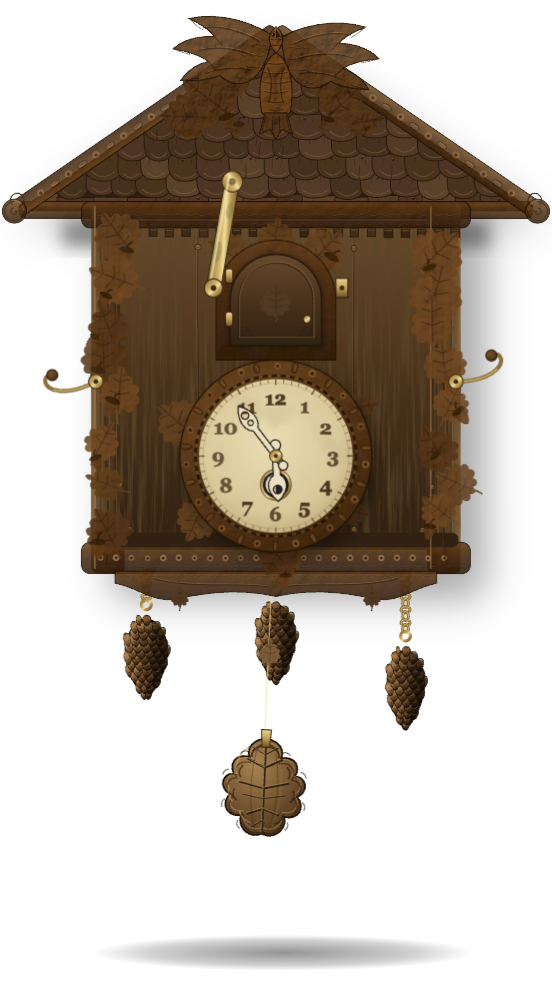
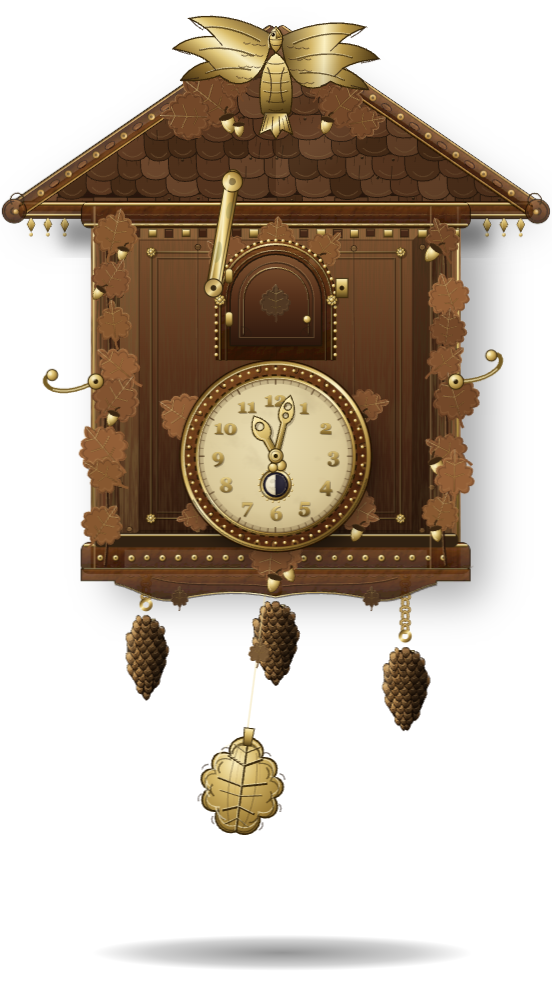
Refresh public repo presentation for the new gilt/carved-bird look
Screenshots were still from before the gold luxury pass and per-species
bird redesign, so they showed a plain wood clock with one generic bird.
Regenerated docs/screenshot-case.png and docs/screenshot-panel.png from
a live self test run, added docs/screenshot-birds.png (a labelled gallery
of all six carved species) and docs/social-preview.png (a 1280x640 hero
banner for GitHub's link preview, upload manually via Settings > General
> Social preview, there's no public API for setting it).

README: added badges, a "Using it" section covering the case's real
interactions (drag to move/resize, click the bob to stop/start the
pendulum, drag chains to wind, click the latch, double click the dial),
and updated copy to describe the current look and the six real bird
carvings instead of six recolors. Repo description and topics also set
via `gh repo edit`.

Claude-Session: https://claude.ai/code/session_019h2RLxp2iqRRXf3q8ZD4nQ

diff --git a/README.md b/README.md
@@ -1,9 +1,20 @@
 # CuckooSoft
 
-A hand carved, fully working Black Forest cuckoo clock that lives on your macOS
+<p align="center">
+  <img src="docs/social-preview.png" alt="CuckooSoft" width="720">
+</p>
+
+<p align="center">
+  <a href="LICENSE"><img alt="License: MIT" src="https://img.shields.io/badge/license-MIT-d4af7a.svg"></a>
+  <img alt="Platform: macOS" src="https://img.shields.io/badge/platform-macOS-6e5a3f.svg">
+  <img alt="Electron" src="https://img.shields.io/badge/built%20with-Electron-6e5a3f.svg">
+</p>
+
+A hand carved, gilt Black Forest cuckoo clock that lives on your macOS
 desktop. Real pendulum physics, real weight driven chains, an hourly cuckoo
-call with a genuine bellows sound, and a menu bar popover for everything else.
-Free and open source, MIT licensed.
+call with a genuine bellows sound, six carved bird species that actually
+look like their name, and a menu bar popover for everything else. Free and
+open source, MIT licensed.
 
 <p align="center">
   <img src="docs/screenshot-case.png" alt="CuckooSoft case" width="360">
@@ -16,7 +27,10 @@ CuckooSoft is not a clock face, it is a small simulation. The pendulum swing,
 the tick and tock, the weight driven chains, the cuckoo call, the bird door
 and its brass latch, the night silence lever, all of it runs on real timing
 and real state, not a looping animation. It sits as a transparent, frameless,
-always on top window, and lives in the menu bar the rest of the time.
+always on top window, and lives in the menu bar the rest of the time. The
+case itself is gilt bronze and figured wood, mitred panels, beaded gold
+rings, the kind of detail that is meant to reward actually looking closely
+rather than glancing past it.
 
 ## Features
 
@@ -25,18 +39,47 @@ always on top window, and lives in the menu bar the rest of the time.
   authentic drift mode for anyone who wants their clock to genuinely run fast
   or slow like the real thing.
 - **A proper strike train.** Hour, half hour, and quarter hour calls (each
-  independently toggleable), a wire gong, a music box waltz after the hour,
-  a brass latch that physically silences the bird, and a night shut off
-  window.
-- **Six selectable birds.** The classic cuckoo, plus Cardinal, Red winged
-  Blackbird, American Robin, Chickadee, and Mourning Dove, each with its own
-  call and its own tick/tock pair.
+  independently toggleable), a wire gong timed to land while the bird is
+  still out rather than into dead air, a music box waltz after the hour, a
+  brass latch that physically silences the bird, and a night shut off window.
+- **Six carved bird species, not six recolors.** The classic cuckoo, plus
+  Cardinal, Red winged Blackbird, American Robin, Chickadee, and Mourning
+  Dove, each with its own call and tick/tock pair *and* its own carved,
+  shaded, correctly plumed bird behind the door. A cardinal has the crest
+  and the mask, a red winged blackbird has the epaulette, a chickadee has
+  the cap and the bib.
+
+  <p align="center">
+    <img src="docs/screenshot-birds.png" alt="The six bird species, each with its own carving and plumage" width="640">
+  </p>
+
 - **Character.** Patina that builds with handling and age, rare unscripted
   little moments (a curious peek between calls, a caught breath in the
   pendulum), and a small moon phase ring on the dial, all independently
   toggleable.
 - **A menu bar popover** for the controls worth reaching for in a hurry, and
   an exhaustive native menu for everything else.
+
+## Using it
+
+The case is not just decoration, most of it is a real control:
+
+- **Drag the roof or the walls** to move the window. **Drag any edge or
+  corner** to resize it freely, or use the S / M / L / XL / Fit chips in the
+  popover.
+- **Click the pendulum bob** to stop or start the going train, the same way
+  you would still a real clock's pendulum by hand. If the clock ever seems
+  to have "just stopped," this is almost always why, check the tray menu's
+  "Start the pendulum" item.
+- **Drag the regulating leaf** up or down the pendulum rod to run the clock
+  faster or slower (only meaningful with authentic drift on).
+- **Drag any of the three chains** down to wind that train back up by hand,
+  or turn on Auto wind in settings to never think about it.
+- **Click the latch** to silence the bird without muting the ticking.
+- **Double click the dial** to reset the hands to the system clock after
+  dragging the minute hand to set a custom time.
+- **Right click the menu bar icon** for the full native menu, **left click**
+  for the quick settings popover.
 
 ## Running it
 
